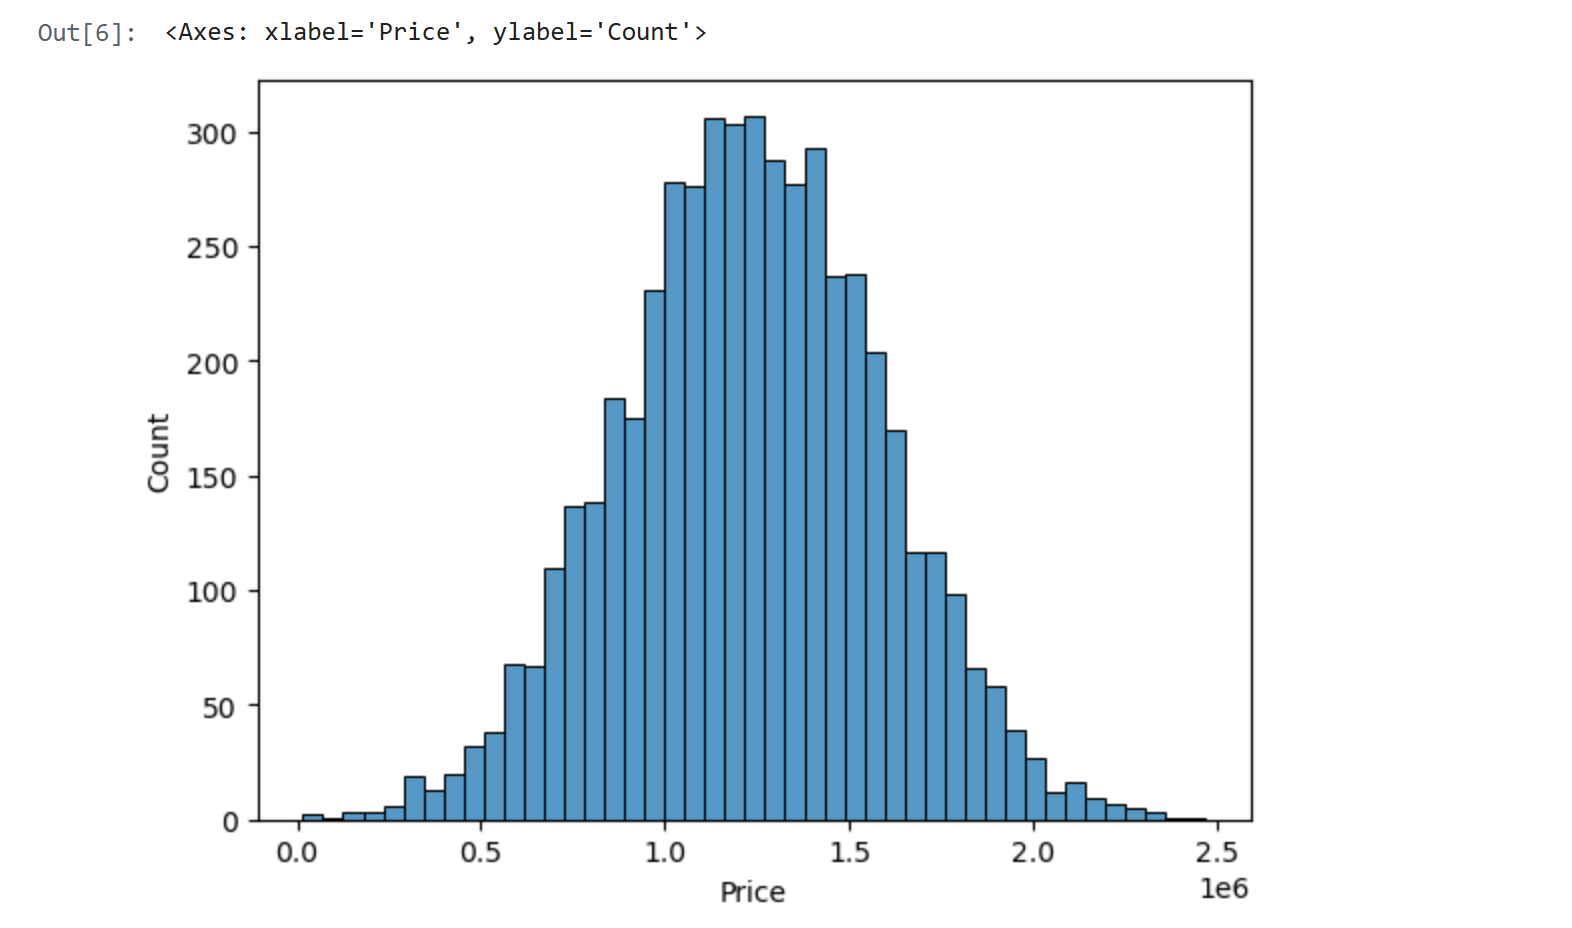
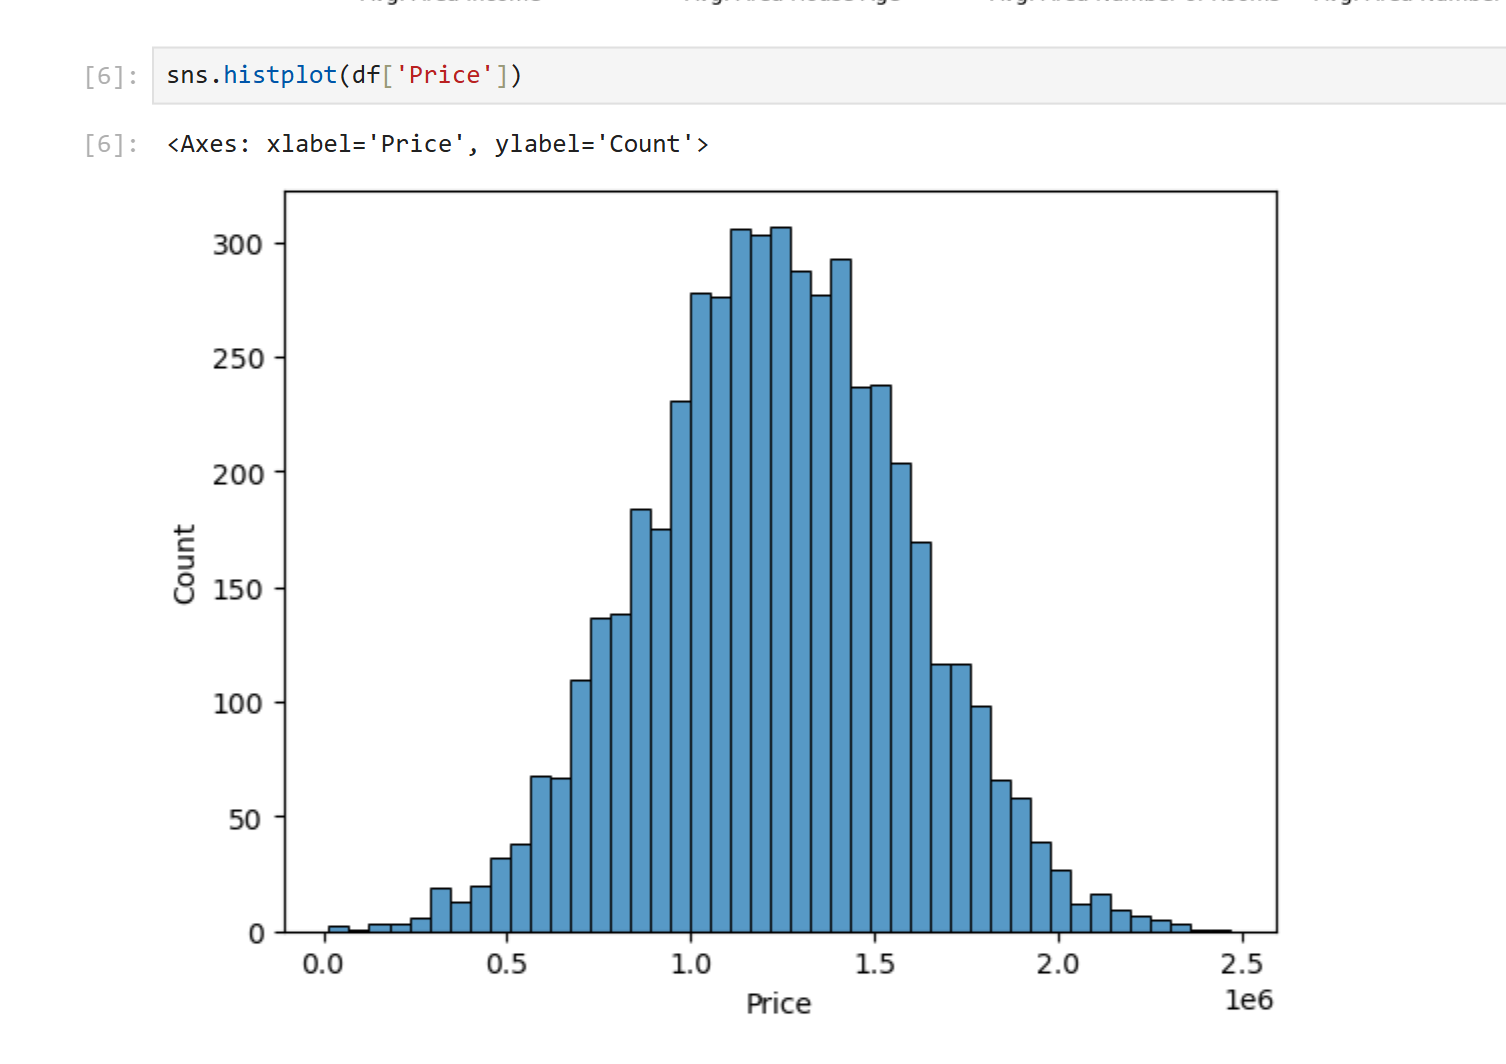
adding content to README.md

diff --git a/README.md b/README.md
@@ -10,7 +10,17 @@
 
 <div>
 <h3>The following plot is a seaborn heatmap , it represents the Correlation between propreties of our housing data frame </h3> <br/>
-<img src='images/heatmap.png' href='histplot'>
+<img src='images/heatmap.png' href='heatmap'>
 </div>
 
-<>
+<div>
+<h3>The following plot is a matplolib Scatter plot , After training the data, the data points are getting closer to the linear graph, </h3> <br/>
+<img src='images/scatterplot.png' href='scatter_plot'>
+</div>
+
+</div>
+
+<div>
+<h3>The following plot is a matplolib Scatter plot , After training the data, the data points are getting closer to the linear graph, </h3> <br/>
+<img src='images/predicted_prices_histplot.png' href='predicted_histplot'>
+</div>
